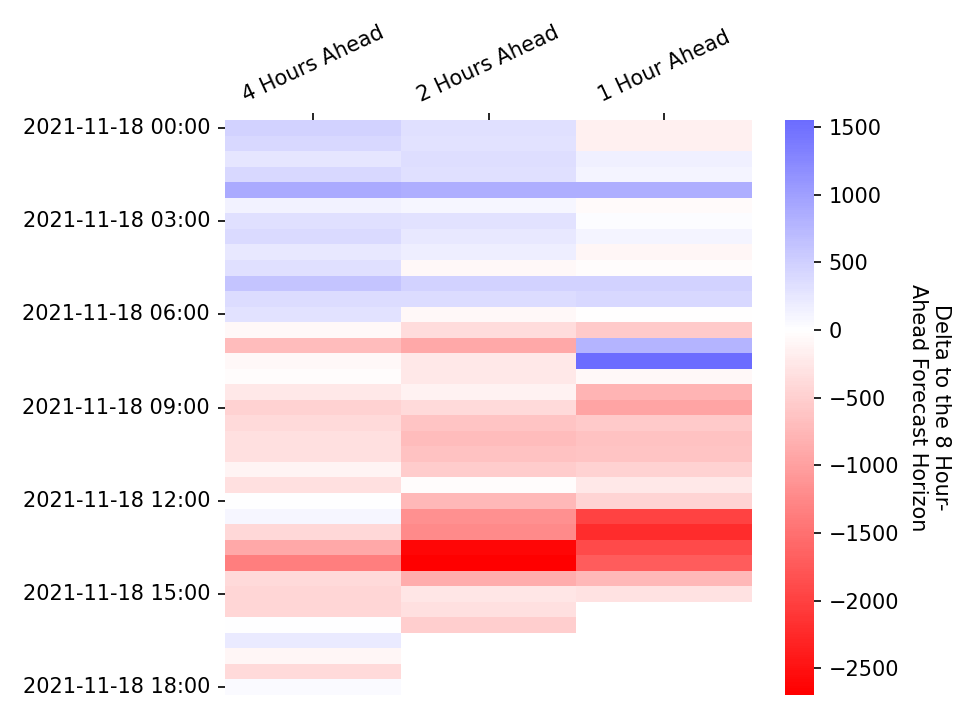
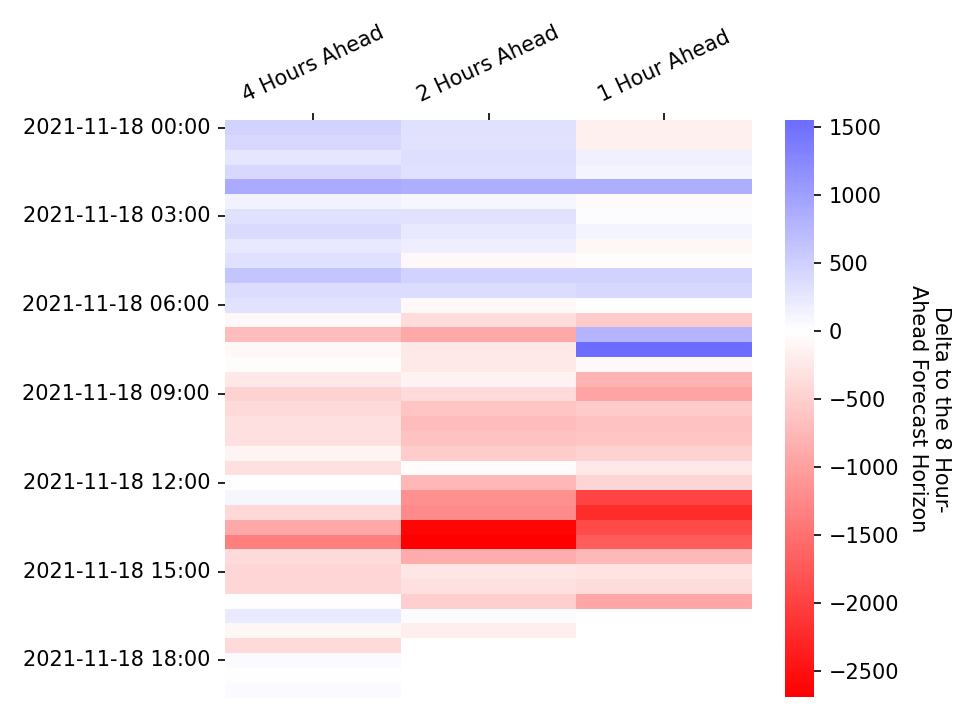
Apply automatic changes

diff --git a/docs/js/map.js b/docs/js/map.js
@@ -144,7 +144,7 @@ document.addEventListener("DOMContentLoaded", function() {
                 follow: 1
             });
             mymap.addControl(sliderControl);
-            sliderControl.startSlider(334);
+            sliderControl.startSlider(335);
         });
     });
 });

diff --git a/docs/visualisations.md b/docs/visualisations.md
@@ -60,7 +60,7 @@ In each settlement period the system operator publishes the de-rated margin fore
 * At 1200 hours on each calendar day for all Settlement Periods for which Gate Closure has not yet passed and which occur within the current Operational Day or the following Operational Day; and
 * At eight, four, two and one hour(s) prior to the beginning of the Settlement Period to which the De-Rated Margin Forecast relates.
 
-These figures will be updated on an hourly basis, the last update was at: 2021-11-18 14:40
+These figures will be updated on an hourly basis, the last update was at: 2021-11-18 15:15
 
 <br>
 
@@ -83,7 +83,7 @@ The following heatmap shows how the more recent de-rated margin forecasts deviat
 
 ### Power Output Map
 
-Last Updated: 2021-11-18 14:40
+Last Updated: 2021-11-18 15:15
 
 This map shows the power output of individual plants connected to the transmission grid as stated in their most recent Physical Notifications. This data can be retrieved through the *PHYBMDATA* BMRS stream, the out-turn data can be viewed one week later through the *B1610* stream. The scrollbar at the top of the map can be used to view how the generation sources have changed their output over the last week, the layer control can be used to toggle on/off the transmission network, and the plants themselves can be clicked to reveal additional information. The plant location data used in this map has been taking from a sister project, [the Power Station Dictionary](https://osuked.github.io/Power-Station-Dictionary/), which aims to link between data about individual power plants.
 
